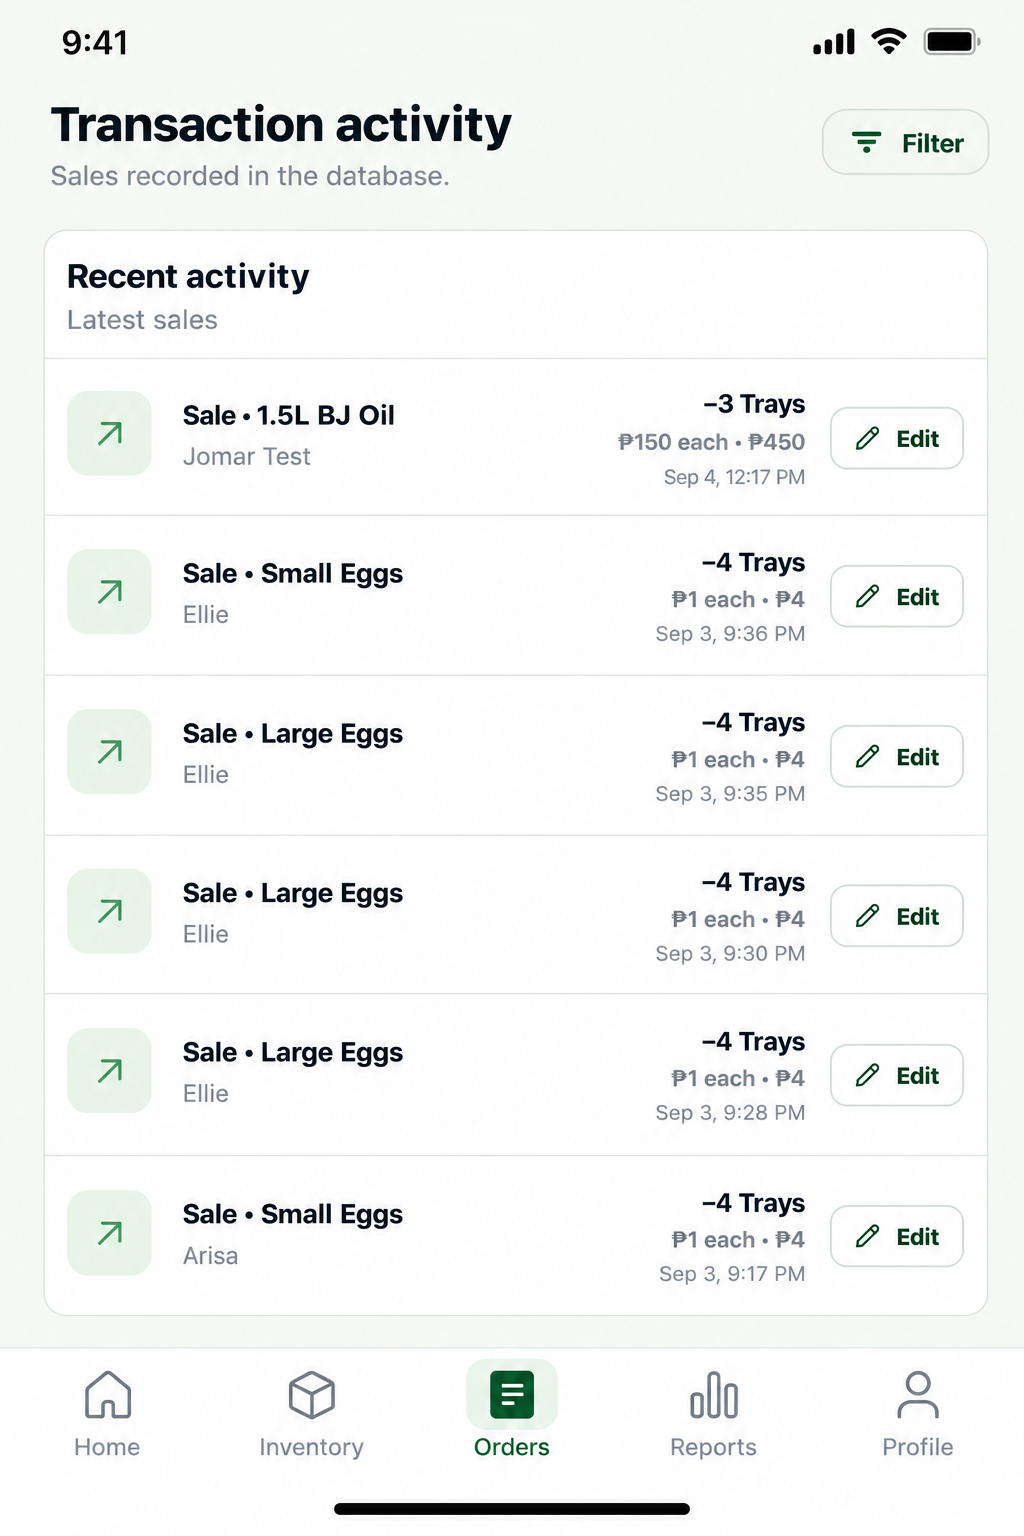
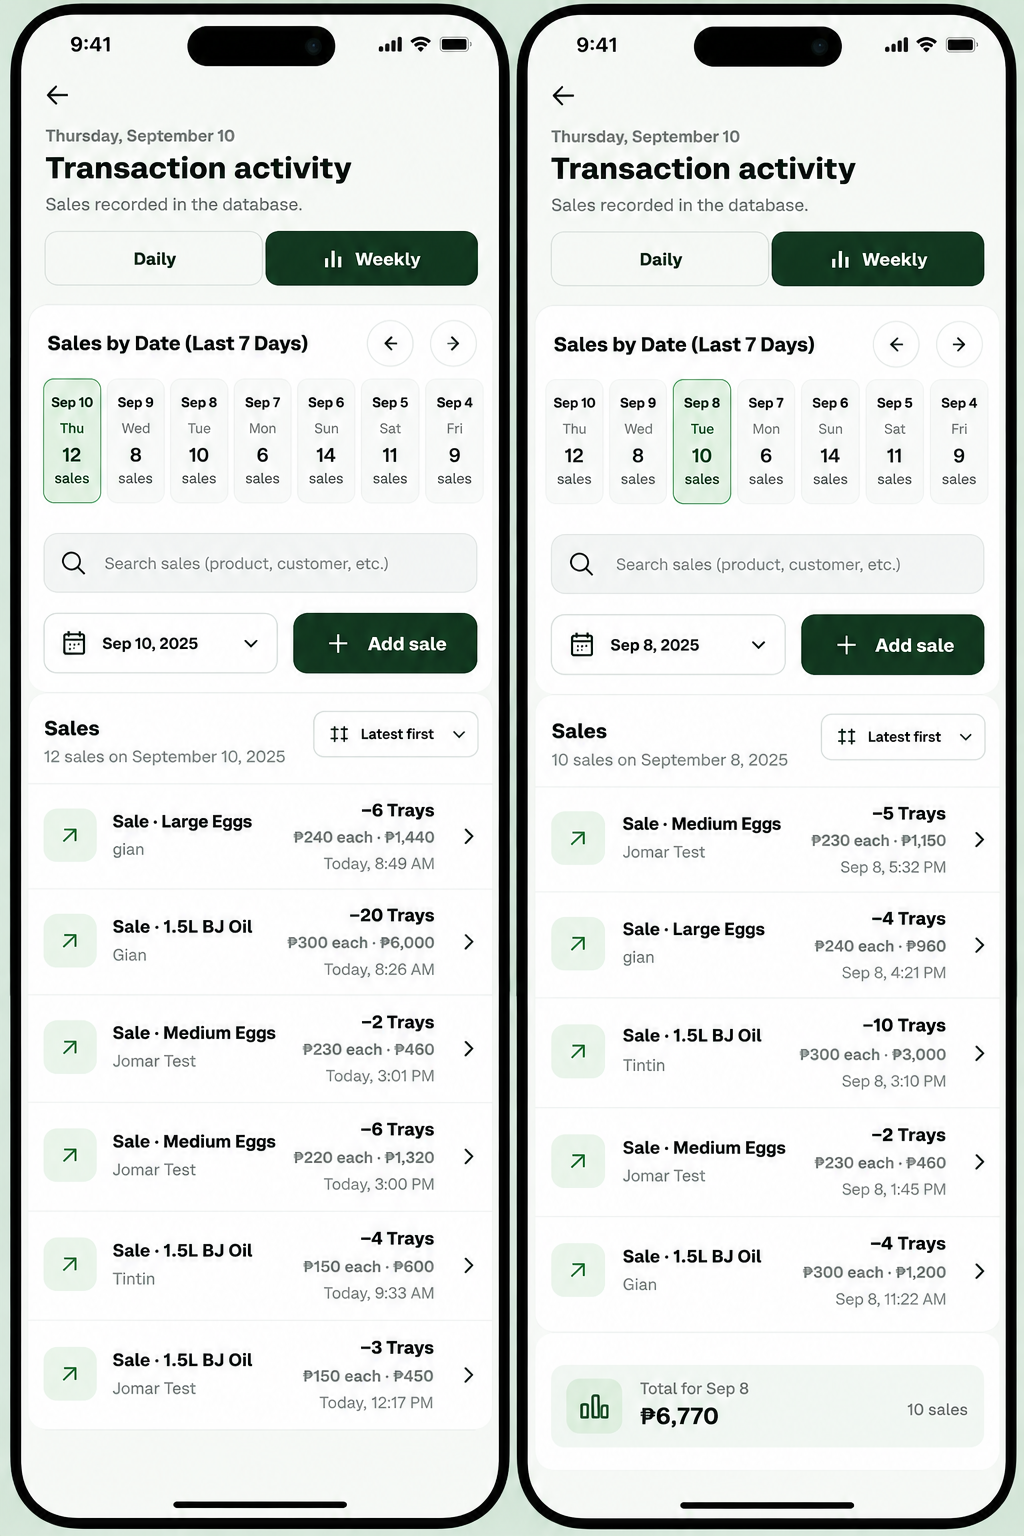
feat: decouple date range navigation from selection in sales activity component

Changed region(s): [[0.0, 0.0, 1.0, 1.0]]

diff --git a/frontend/components/inventory/sales-activity.tsx b/frontend/components/inventory/sales-activity.tsx
@@ -39,12 +39,16 @@ export function SalesActivity({
   onTransactionRangeChange,
 }: SalesActivityProps) {
   const todayKey = manilaDateKey(new Date());
-  const [selectedDate, setSelectedDate] = useState(todayKey);
+  const [rangeEndDate, setRangeEndDate] = useState(todayKey);
+  const [selectedDate, setSelectedDate] = useState<string | null>(null);
   const [searchQuery, setSearchQuery] = useState("");
   const dateInputRef = useRef<HTMLInputElement>(null);
-  const days = buildLastSevenDays(sales, selectedDate);
-  const selectedDay = days[0];
+  const days = buildLastSevenDays(sales, rangeEndDate);
+  const rangeEndDay = days[0];
   const oldestDay = days[days.length - 1];
+  const selectedDay = selectedDate
+    ? buildSalesDay(sales, selectedDate)
+    : undefined;
   const weeklyDateKeys = new Set(days.map((day) => day.key));
   const normalizedSearchQuery = searchQuery.trim().toLocaleLowerCase("en-PH");
   const selectedSales = sales
@@ -52,7 +56,7 @@ export function SalesActivity({
       const saleDateKey = manilaDateKey(new Date(sale.createdAt));
       const isInSelectedRange =
         transactionRange === "daily"
-          ? saleDateKey === selectedDate
+          ? selectedDate !== null && saleDateKey === selectedDate
           : weeklyDateKeys.has(saleDateKey);
 
       if (!isInSelectedRange) return false;
@@ -78,6 +82,13 @@ export function SalesActivity({
     }
 
     dateInput.click();
+  };
+
+  const moveDateRange = (numberOfDays: number) => {
+    setRangeEndDate((currentDate) =>
+      shiftDateKey(currentDate, numberOfDays),
+    );
+    setSelectedDate(null);
   };
 
   return (
@@ -121,7 +132,7 @@ export function SalesActivity({
           <button
             type="button"
             aria-label="Show previous seven days"
-            onClick={() => setSelectedDate(shiftDateKey(selectedDate, -7))}
+            onClick={() => moveDateRange(-7)}
             className="grid size-10 shrink-0 place-items-center rounded-xl border border-[#d5ddd3] bg-white text-[#173b24] transition hover:bg-[#edf4eb]"
           >
             <ChevronLeft size={20} aria-hidden="true" />
@@ -129,39 +140,53 @@ export function SalesActivity({
 
           <div className="min-w-0 flex-1 overflow-x-auto pb-1">
             <div className="grid min-w-225 grid-cols-7 gap-2">
-              {[...days].reverse().map((day) => (
-                <button
-                  type="button"
-                  key={day.key}
-                  aria-pressed={day.key === selectedDate}
-                  onClick={() => {
-                    setSelectedDate(day.key);
-                    onTransactionRangeChange("daily");
-                  }}
-                  className={`rounded-xl border px-3 py-3 text-center ${
-                    day.key === selectedDate
-                      ? "border-[#4f9a66] bg-[#edf7ec] shadow-[inset_0_0_0_1px_rgba(79,154,102,0.08)]"
-                      : "border-[#e1e6df] bg-[#fbfcfa] transition hover:border-[#8eb99a] hover:bg-[#f4f9f3]"
-                  }`}
-                >
-                  <p className="text-sm font-black text-[#17261b]">
-                    {day.shortDate}
-                  </p>
-                  <p className="mt-1 text-xs font-medium text-[#77837a]">
-                    {day.weekday}
-                  </p>
-                  <p className="mt-1 text-xs font-bold text-[#344238]">
-                    {day.saleCount} {day.saleCount === 1 ? "sale" : "sales"}
-                  </p>
-                </button>
-              ))}
+              {[...days].reverse().map((day) => {
+                const isSelected = day.key === selectedDate;
+                const isToday = day.key === todayKey;
+
+                return (
+                  <button
+                    type="button"
+                    key={day.key}
+                    aria-label={`${day.fullDate}${isToday ? ", today" : ""}`}
+                    aria-pressed={isSelected}
+                    onClick={() => {
+                      setSelectedDate(day.key);
+                      onTransactionRangeChange("daily");
+                    }}
+                    className={`rounded-xl border px-3 py-3 text-center transition ${
+                      isSelected
+                        ? "border-[#4f9a66] bg-[#e5f3e4] shadow-[inset_0_0_0_1px_rgba(79,154,102,0.12)]"
+                        : isToday
+                          ? "border-[#8fbd9a] bg-[#f0f8ee] shadow-[inset_0_0_0_1px_rgba(79,154,102,0.08)]"
+                          : "border-[#e1e6df] bg-[#fbfcfa] hover:border-[#8eb99a] hover:bg-[#f4f9f3]"
+                    }`}
+                  >
+                    <p className="text-sm font-black text-[#17261b]">
+                      {day.shortDate}
+                    </p>
+                    <p
+                      className={`mt-1 text-xs font-medium ${
+                        isToday
+                          ? "font-black text-[#39704a]"
+                          : "text-[#77837a]"
+                      }`}
+                    >
+                      {isToday ? `Today · ${day.weekday}` : day.weekday}
+                    </p>
+                    <p className="mt-1 text-xs font-bold text-[#344238]">
+                      {day.saleCount} {day.saleCount === 1 ? "sale" : "sales"}
+                    </p>
+                  </button>
+                );
+              })}
             </div>
           </div>
 
           <button
             type="button"
             aria-label="Show next seven days"
-            onClick={() => setSelectedDate(shiftDateKey(selectedDate, 7))}
+            onClick={() => moveDateRange(7)}
             className="grid size-10 shrink-0 place-items-center rounded-xl border border-[#d5ddd3] bg-white text-[#173b24] transition hover:bg-[#edf4eb]"
           >
             <ChevronRight size={20} aria-hidden="true" />
@@ -188,23 +213,26 @@ export function SalesActivity({
               onClick={openDatePicker}
               className="min-w-0 flex-1 truncate text-left text-sm font-black"
             >
-              {selectedDay.longDate}
+              {selectedDay?.longDate ?? "Select date"}
             </button>
             <input
               ref={dateInputRef}
               aria-label="Select transaction date"
               className="absolute h-px w-px opacity-0"
               type="date"
-              value={selectedDate}
+              value={selectedDate ?? ""}
               onChange={(event) => {
-                if (event.target.value) setSelectedDate(event.target.value);
+                if (!event.target.value) return;
+                setSelectedDate(event.target.value);
+                onTransactionRangeChange("daily");
               }}
             />
             <button
               type="button"
-              aria-label="Reset transaction date to today"
-              onClick={() => setSelectedDate(todayKey)}
-              className="grid size-7 shrink-0 place-items-center rounded-md hover:bg-[#edf2eb]"
+              aria-label="Clear selected transaction date"
+              disabled={selectedDate === null}
+              onClick={() => setSelectedDate(null)}
+              className="grid size-7 shrink-0 place-items-center rounded-md hover:bg-[#edf2eb] disabled:cursor-default disabled:opacity-35"
             >
               <X size={17} aria-hidden="true" />
             </button>
@@ -255,6 +283,7 @@ export function SalesActivity({
                 selectedSales.length,
                 transactionRange,
                 selectedDay,
+                rangeEndDay,
                 oldestDay,
               )}
             </p>
@@ -272,11 +301,11 @@ export function SalesActivity({
           ))
         ) : (
           <p className="p-10 text-center text-sm font-semibold text-[#7c867e]">
-            {normalizedSearchQuery
-              ? "No sales match your search."
-              : transactionRange === "daily"
-                ? "No sales were recorded on this date."
-                : "No sales were recorded in this seven-day period."}
+            {buildEmptyMessage(
+              normalizedSearchQuery,
+              transactionRange,
+              selectedDay,
+            )}
           </p>
         )}
       </article>
@@ -378,52 +407,74 @@ function buildLastSevenDays(sales: Sale[], selectedDate: string): SalesDay[] {
         selectedDateParts[2] - index,
       ),
     );
-    const key = date.toISOString().slice(0, 10);
-    const saleCount = sales.filter(
-      (sale) => manilaDateKey(new Date(sale.createdAt)) === key,
-    ).length;
-
-    return {
-      key,
-      shortDate: date.toLocaleDateString("en-PH", {
-        month: "short",
-        day: "numeric",
-        timeZone: "UTC",
-      }),
-      weekday: date.toLocaleDateString("en-PH", {
-        weekday: "short",
-        timeZone: "UTC",
-      }),
-      longDate: date.toLocaleDateString("en-PH", {
-        month: "short",
-        day: "numeric",
-        year: "numeric",
-        timeZone: "UTC",
-      }),
-      fullDate: date.toLocaleDateString("en-PH", {
-        month: "long",
-        day: "numeric",
-        year: "numeric",
-        timeZone: "UTC",
-      }),
-      saleCount,
-    };
+    return buildSalesDay(sales, date.toISOString().slice(0, 10));
   });
+}
+
+function buildSalesDay(sales: Sale[], dateKey: string): SalesDay {
+  const [year, month, day] = dateKey.split("-").map(Number);
+  const date = new Date(Date.UTC(year, month - 1, day));
+  const saleCount = sales.filter(
+    (sale) => manilaDateKey(new Date(sale.createdAt)) === dateKey,
+  ).length;
+
+  return {
+    key: dateKey,
+    shortDate: date.toLocaleDateString("en-PH", {
+      month: "short",
+      day: "numeric",
+      timeZone: "UTC",
+    }),
+    weekday: date.toLocaleDateString("en-PH", {
+      weekday: "short",
+      timeZone: "UTC",
+    }),
+    longDate: date.toLocaleDateString("en-PH", {
+      month: "short",
+      day: "numeric",
+      year: "numeric",
+      timeZone: "UTC",
+    }),
+    fullDate: date.toLocaleDateString("en-PH", {
+      month: "long",
+      day: "numeric",
+      year: "numeric",
+      timeZone: "UTC",
+    }),
+    saleCount,
+  };
 }
 
 function buildSalesSummary(
   saleCount: number,
   transactionRange: TransactionRange,
-  selectedDay: SalesDay,
+  selectedDay: SalesDay | undefined,
+  rangeEndDay: SalesDay,
   oldestDay: SalesDay,
 ) {
   const saleLabel = saleCount === 1 ? "sale" : "sales";
 
   if (transactionRange === "daily") {
+    if (!selectedDay) return "Select a date to view daily sales.";
     return `${saleCount} ${saleLabel} on ${selectedDay.fullDate}`;
   }
 
-  return `${saleCount} ${saleLabel} from ${oldestDay.longDate} to ${selectedDay.longDate}`;
+  return `${saleCount} ${saleLabel} from ${oldestDay.longDate} to ${rangeEndDay.longDate}`;
+}
+
+function buildEmptyMessage(
+  normalizedSearchQuery: string,
+  transactionRange: TransactionRange,
+  selectedDay: SalesDay | undefined,
+) {
+  if (transactionRange === "daily" && !selectedDay) {
+    return "Select a date card to view its sales.";
+  }
+  if (normalizedSearchQuery) return "No sales match your search.";
+  if (transactionRange === "daily") {
+    return "No sales were recorded on this date.";
+  }
+  return "No sales were recorded in this seven-day period.";
 }
 
 function shiftDateKey(dateKey: string, numberOfDays: number) {
